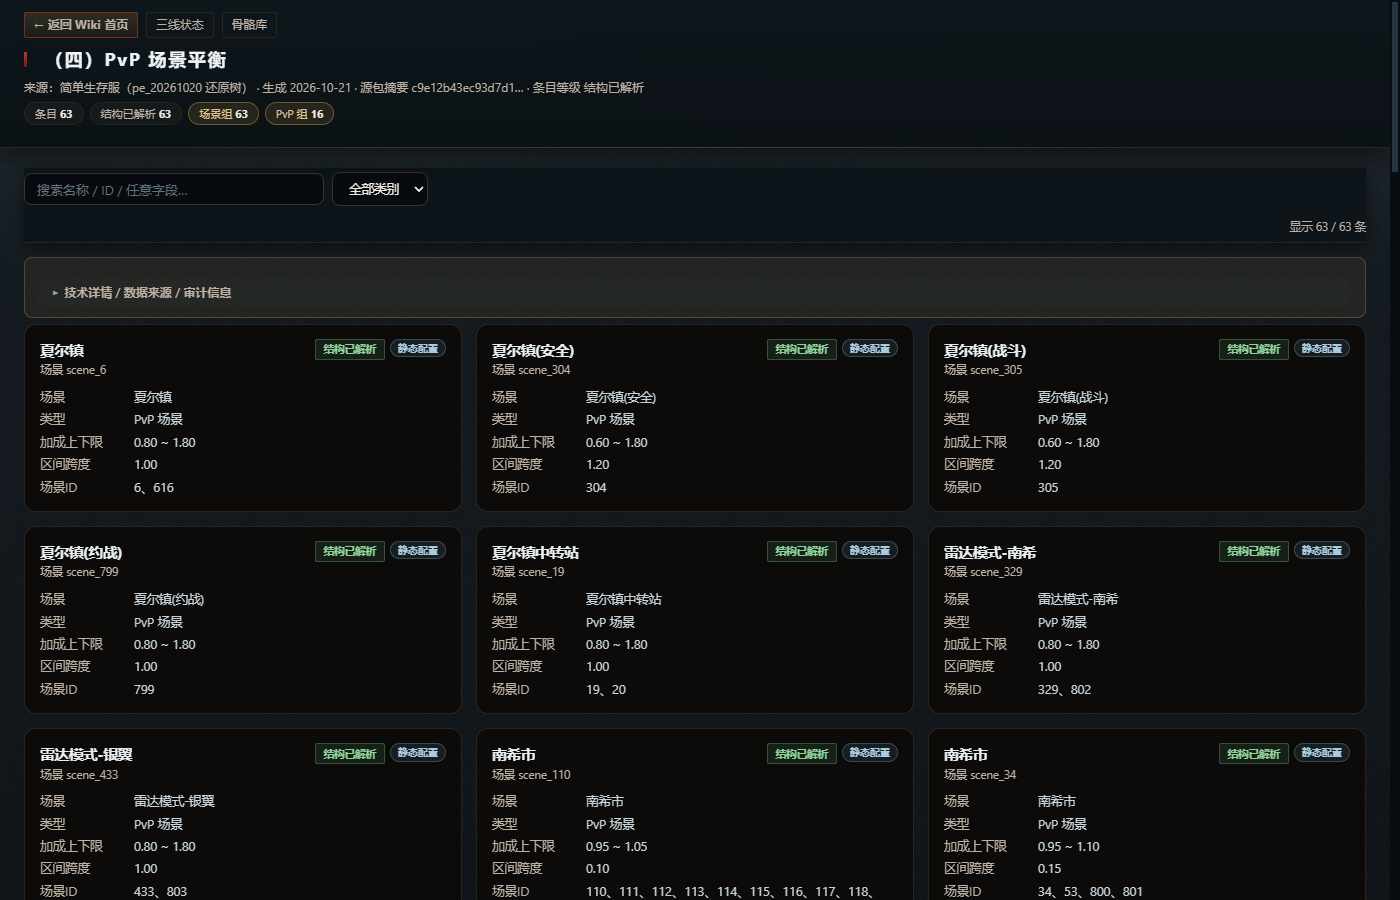
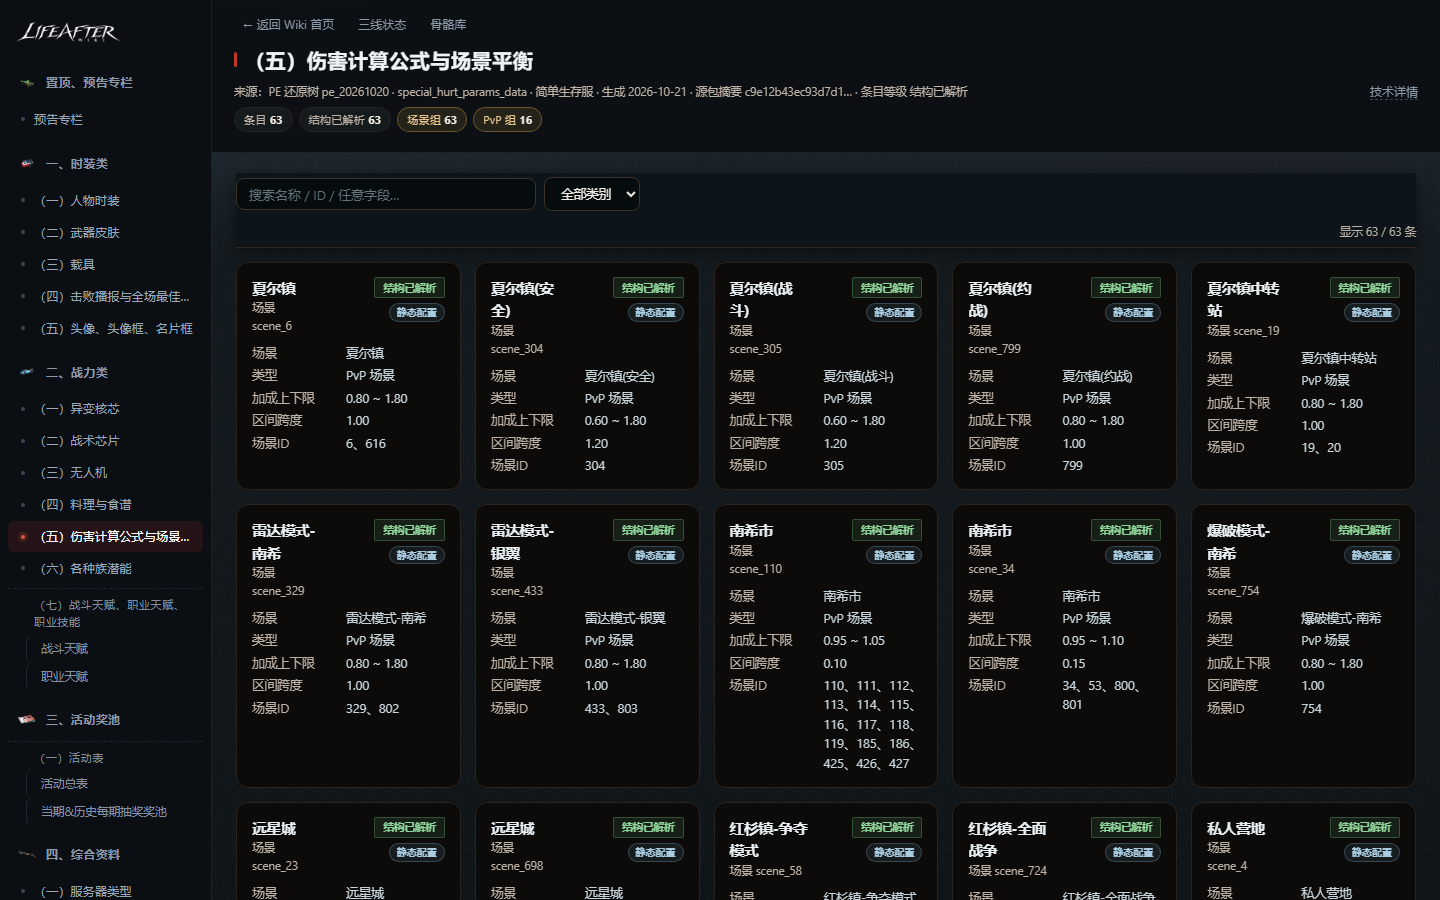
docs(readme): 简介再压缩 + 全部配图重拍（1440×900）+ 缩略图映射补齐
- 数据口径改为 27 板块 / 123,840 条
- 8 张截图按当前站点重拍（含四分类首页、武器皮肤、料理、头像、伤害公式、3D 皮肤）

diff --git a/02_wiki/web/wiki.html b/02_wiki/web/wiki.html
@@ -311,7 +311,13 @@ a:focus-visible,input:focus-visible,summary:focus-visible,button:focus-visible{
     [/item_master/i,     'assets/item_icons/icon_10004_b.png'],
     [/gift_data/i,       'assets/item_icons/icon_1110002_b.png'],
     [/nucleus_entry/i,   'assets/core_icons/item_icon_jin_bing_b.png'],
-    [/shop_static/i,     'assets/item_icons/icon_1110003_b.png']
+    [/shop_static/i,     'assets/item_icons/icon_1110003_b.png'],
+    [/avatar/i,          'assets/avatar_icons/af_410001.png'],
+    [/kill_broadcast/i,  'assets/item_icons/icon_1110002_b.png'],
+    [/edible|recipe/i,   'assets/recipe_icons/icon_125058_b.png'],
+    [/upcoming/i,        'assets/skin_posters/1110012.png'],
+    [/talent|title|buff|entity|skill|illustration|server_types|text_notice|desc|activity|scene_balance/i,
+                         'assets/item_icons/icon_10004_b.png']
   ];
   function thumbOf(id){
     for(var i=0;i<THUMBS.length;i++) if(THUMBS[i][0].test(id)) return THUMBS[i][1];

diff --git a/README.md b/README.md
@@ -2,7 +2,7 @@
 
 **把《明日之后》客户端拆成可查询的图鉴。**
 
-27 个板块 / 120,712 条数据 / 全部带行级来源。
+27 个板块 / 123,840 条数据 / 全部带行级来源。
 
 拆包 → 解码 → 建板 → 发布，一条命令链跑完；换台机器 clone 代码 + 解压数据包就能起站。
 
@@ -10,24 +10,19 @@
 
 ---
 
-## 它到底是什么
+## 它是什么
 
-一套面向《明日之后》客户端的开源拆包与图鉴生产工具链，把
+一套《明日之后》拆包与图鉴生产工具链，链路：
 
 ```
 原始包 → 索引 → 还原树 → 配置表解码 → 图鉴板块 → 站点
 ```
 
-串成一条可复现的流水线：
+- PE 174 包 / 180 万行，PC 60 包 / 227 万行；配置表解码 893 张
+- 逻辑路径 → fid → 包+行；2D 图按档位与像素取最高清
+- 每条数据带行级溯源；还原树/索引/板块都可从客户端重建
 
-- **索引**：PE 侧 174 个包 / 1,801,666 行，PC 侧 60 个包 / 2,271,305 行
-- **解码**：配置表覆盖 893 张，含 `0x56` / `0x76` / `0x73` 三族容器
-- **定位**：逻辑路径 → murmur3 fid → 包 + 行；2D 图按档位与像素取最高清
-- **溯源**：每条数据带行级定位链（源包摘要 → 表 → 行键 → 字段）
-- **重建设**：还原树、索引、板块数据全部可由脚本从客户端重建
-
-> **[⬇ 下载最新版](https://github.com/lespre/lifeafter-toolkit/releases/latest)**
-> 代码包 + 数据包（27 板块 + 图标素材）分开提供：解压 → 跑 `la.py doctor` → `wiki_server.py` 起站。
+> **[⬇ 下载最新版](https://github.com/lespre/lifeafter-toolkit/releases/latest)**（代码包 + 数据包）
 
 ---
 
